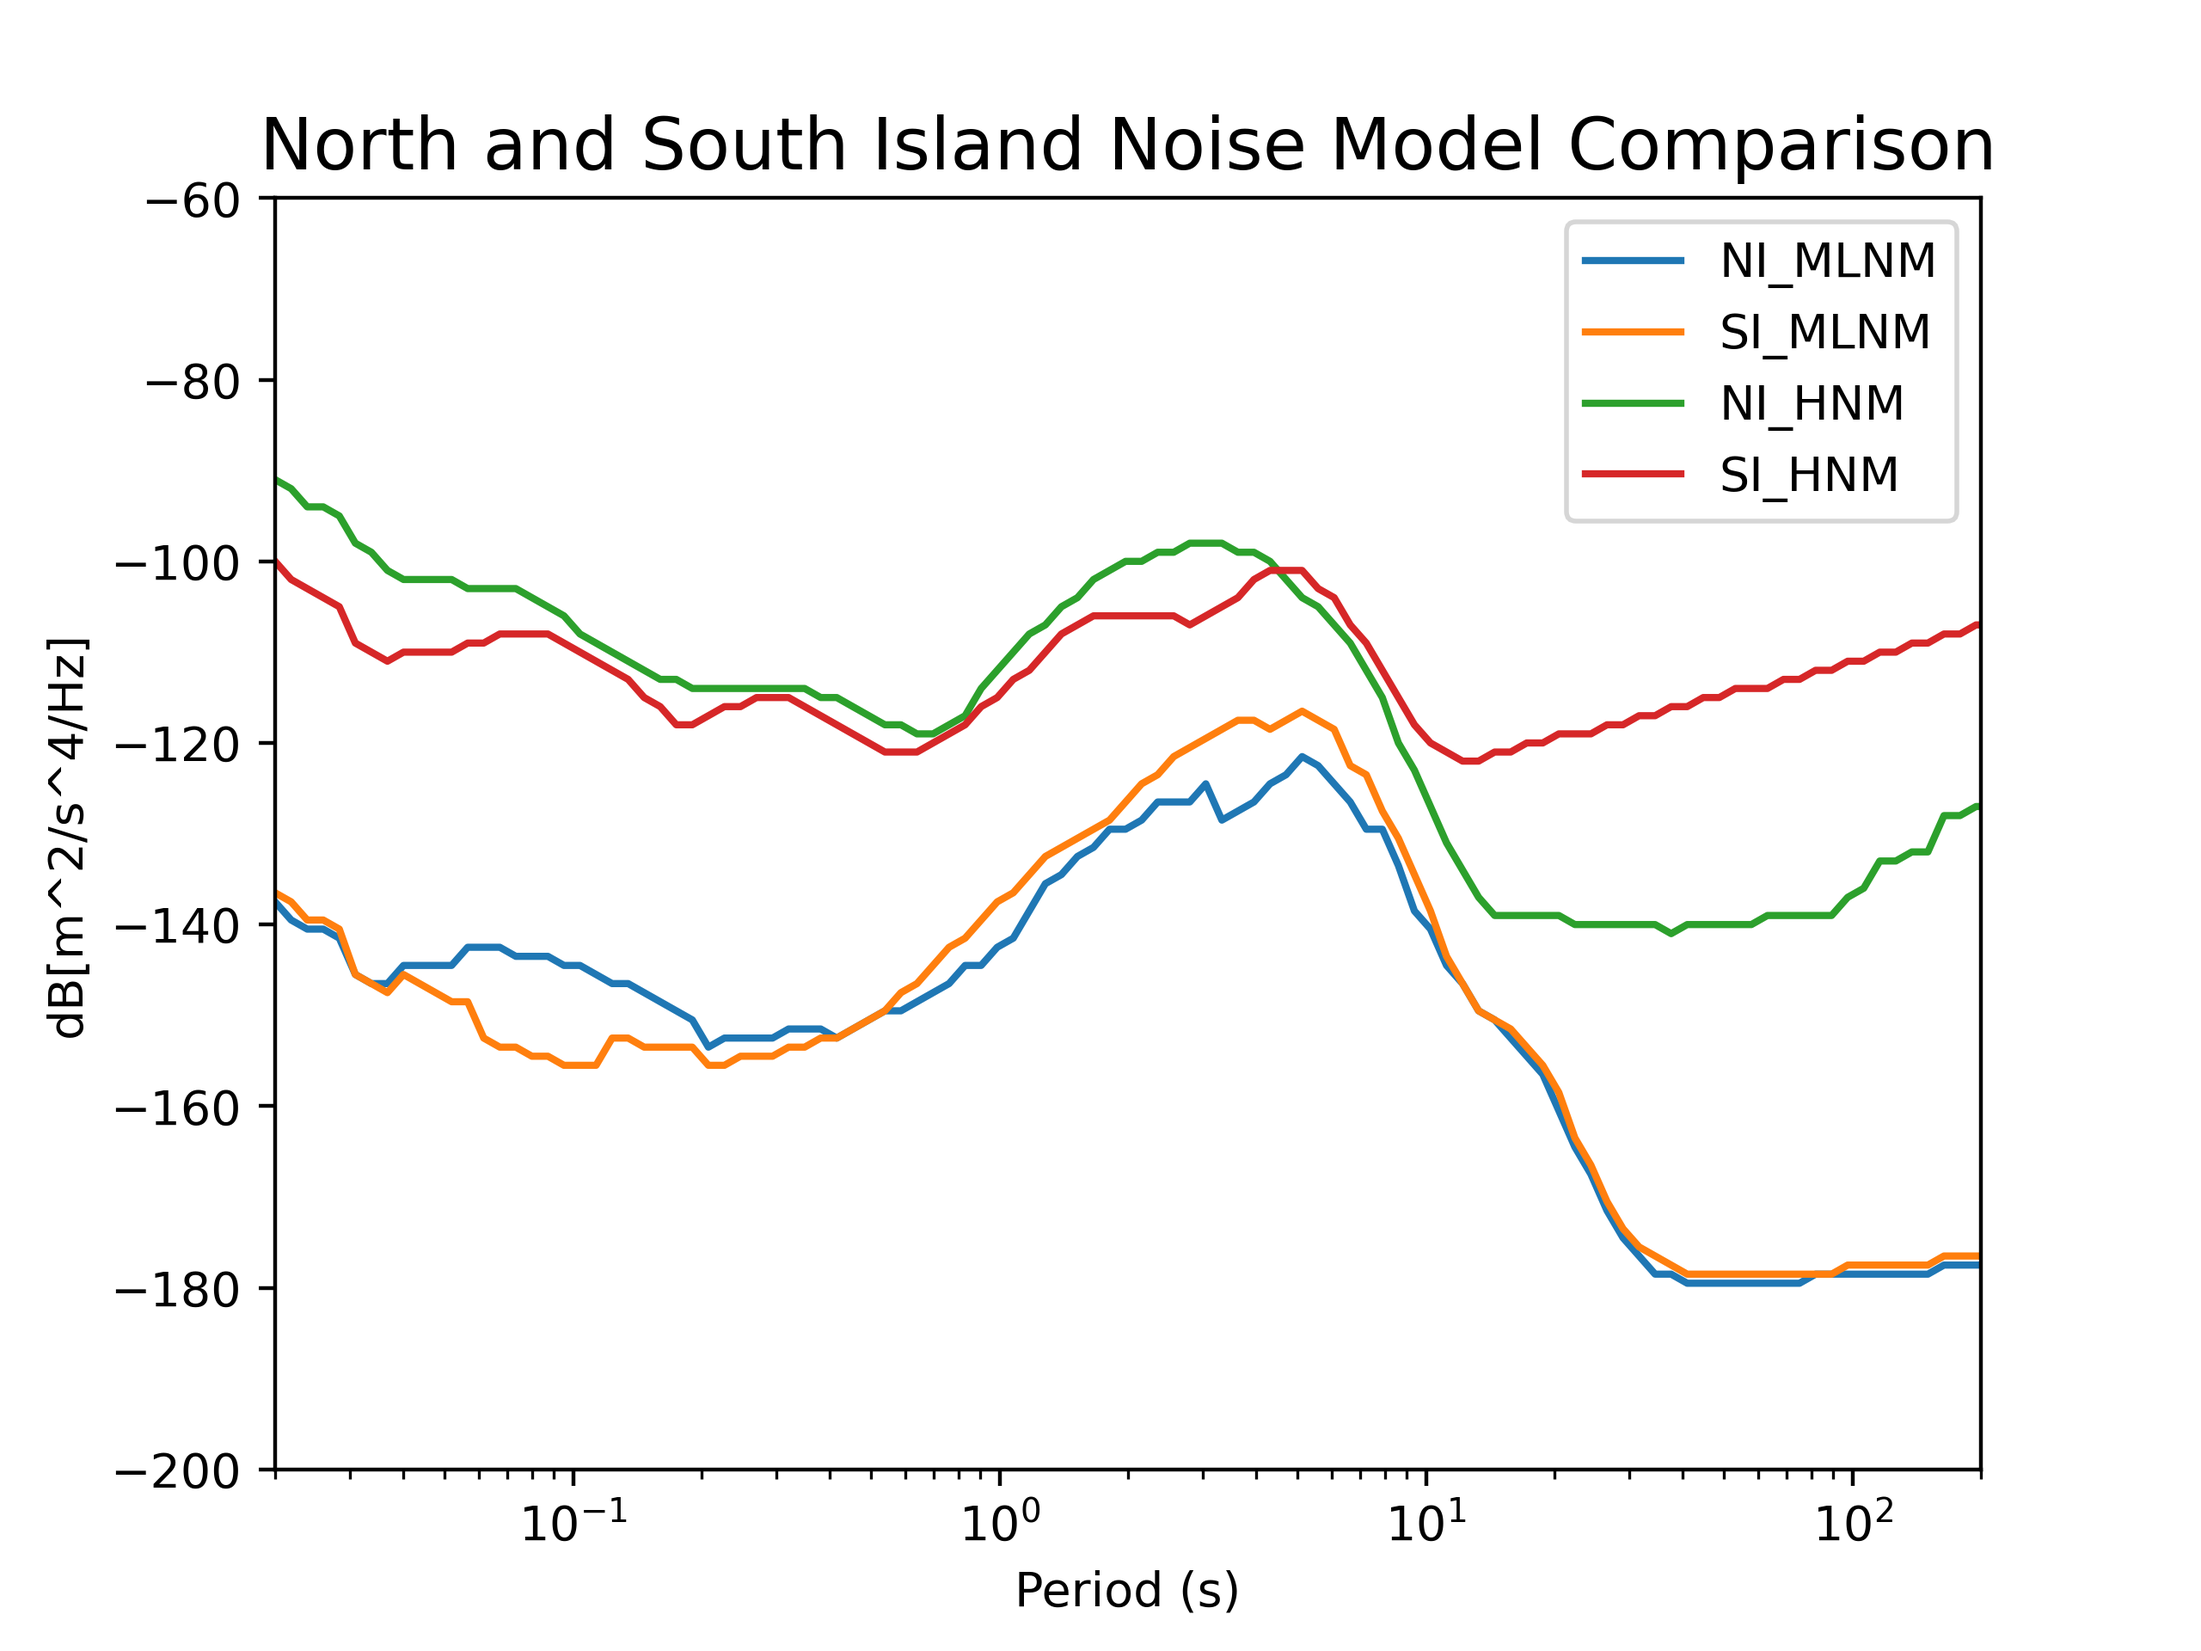
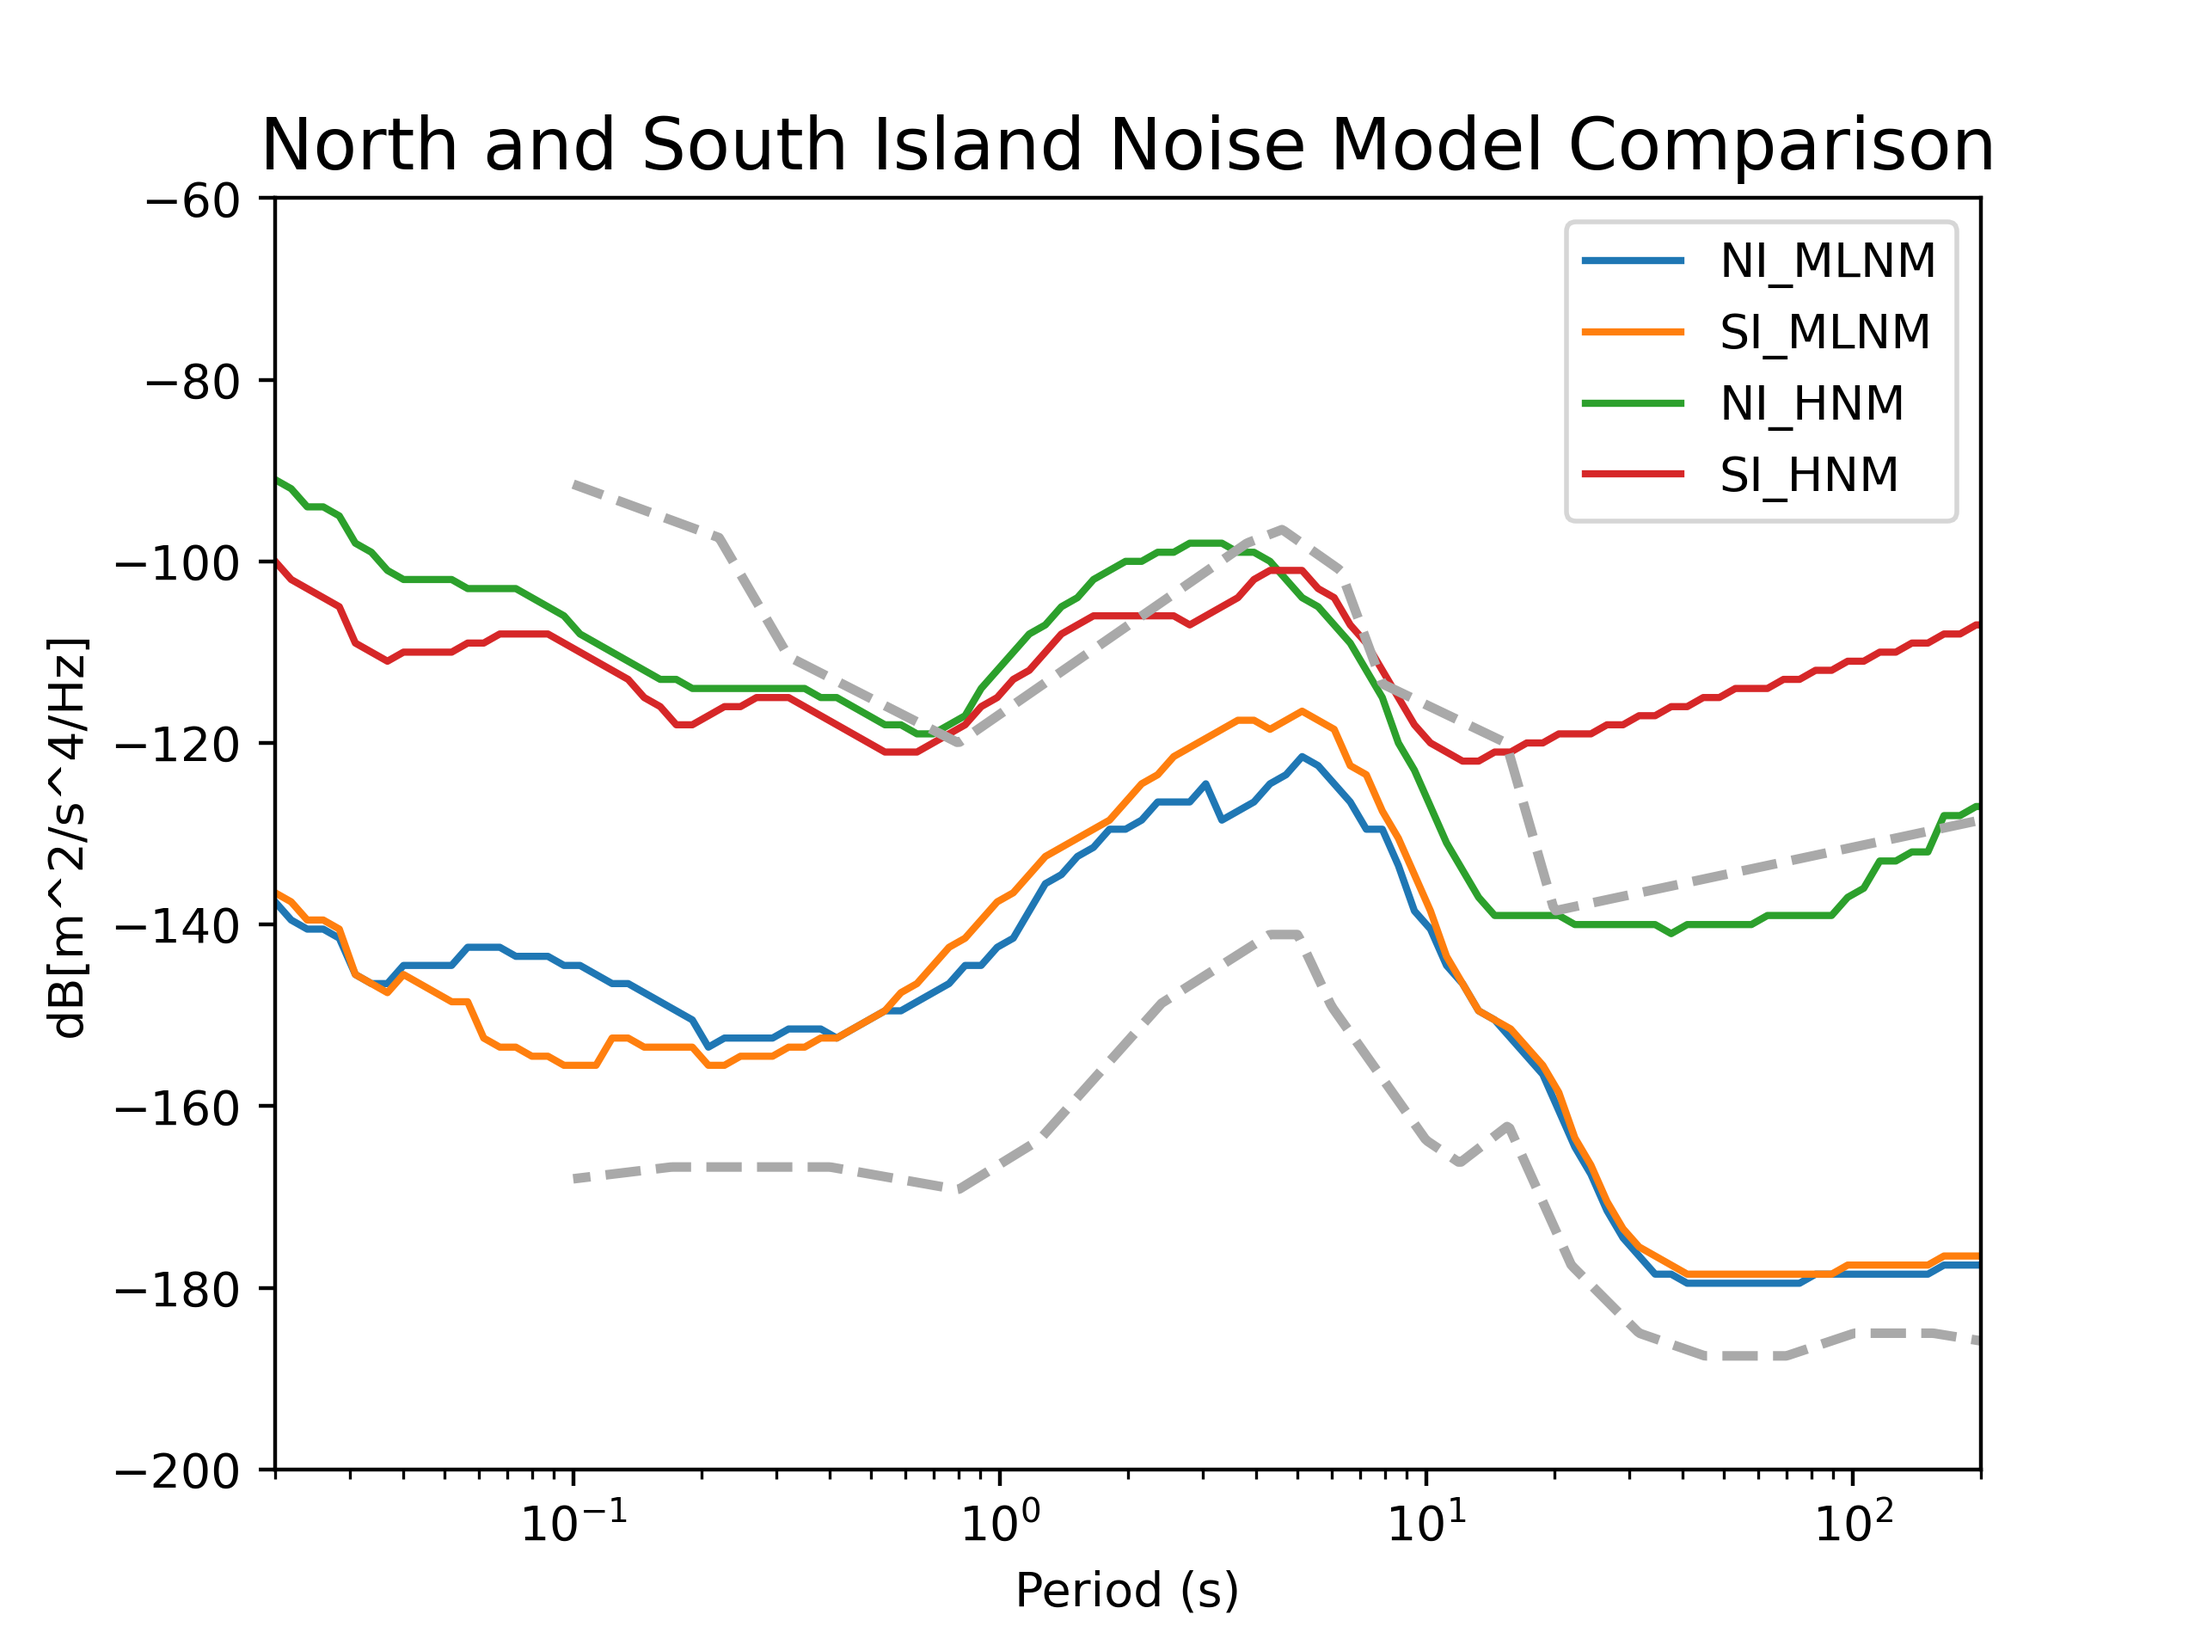
added nlnm and nhnm to comparison

diff --git a/compare_mlnm_hnm.py b/compare_mlnm_hnm.py
@@ -4,6 +4,7 @@ import pandas as pd
 import seaborn as sns
 import matplotlib.pyplot as plt
 import matplotlib.dates as mdates
+from obspy.signal.spectral_estimation import get_nlnm, get_nhnm
 
 df1 = pd.read_csv("/home/conradb/git/NZ_noise_models/North_Island_MLNM.csv")
 df2 = pd.read_csv("/home/conradb/git/NZ_noise_models/South_Island_MLNM.csv")
@@ -22,6 +23,12 @@ plt.xlim(0.02,200)
 plt.xlabel('Period (s)')
 plt.ylim(-200,-60)
 plt.ylabel('dB[m^2/s^4/Hz]')
+
+per, nlnm = get_nlnm()
+per, nhnm = get_nhnm()
+
+plt.plot(per, nlnm, color='darkgrey', linewidth=2, linestyle='dashed')
+plt.plot(per, nhnm, color='darkgrey', linewidth=2, linestyle='dashed', label='Petersons NLNM/NHNM')
 
 # plt.show()
 plt.savefig('/home/conradb/git/NZ_noise_models/figures/Comparison.png', dpi=400, format='png')
